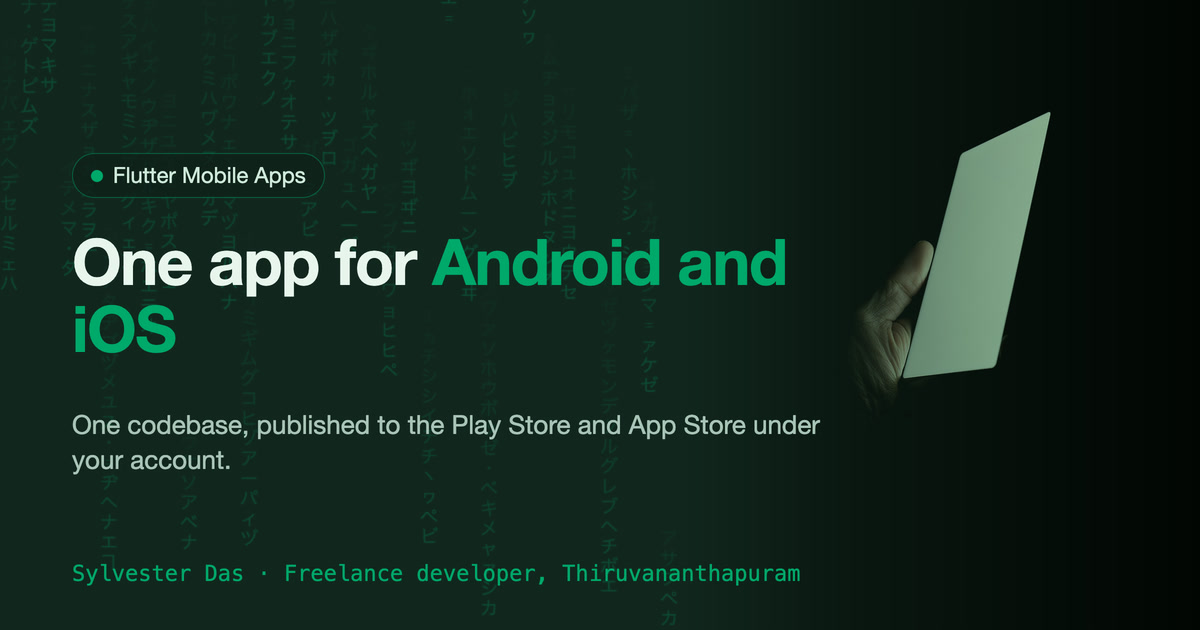
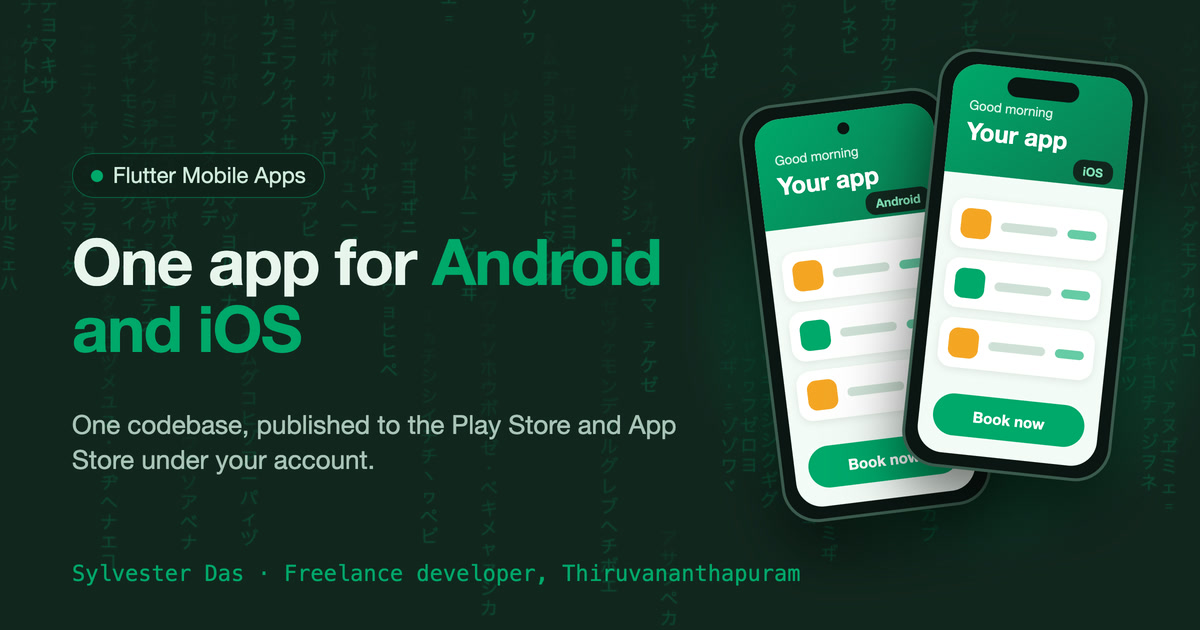
feat: brighter Flutter share image with phone mockups

diff --git a/src/config/seo.js b/src/config/seo.js
@@ -1,7 +1,7 @@
 const siteUrl = process.env.NEXT_PUBLIC_SITE_URL || "https://www.sylvesterdas.com";
 
 // Bump when share images change, so LinkedIn and others refetch them instead of using a cached copy
-export const ogVersion = 2;
+export const ogVersion = 3;
 
 export const siteConfig = {
     title: "Sylvester Das | Freelance Software Developer, Trivandrum",
